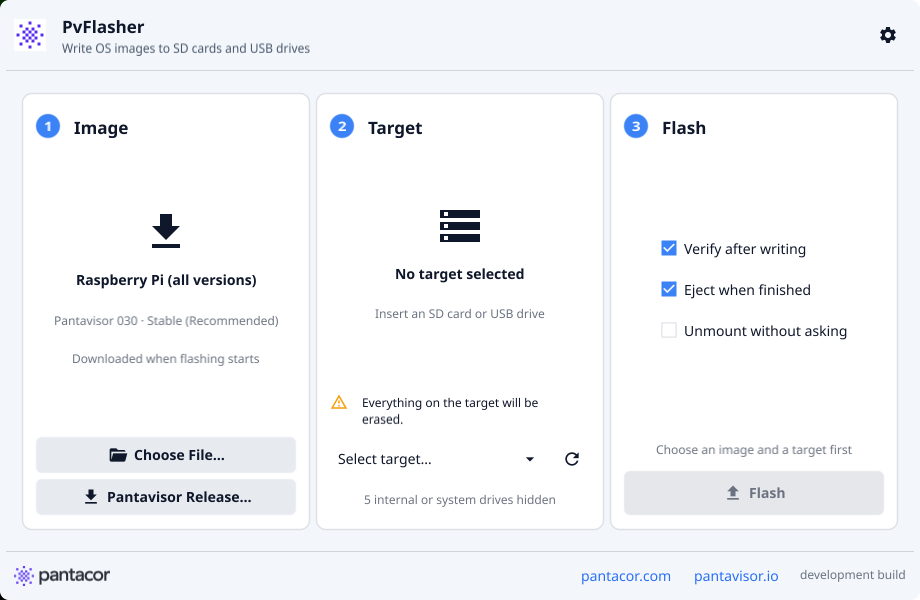
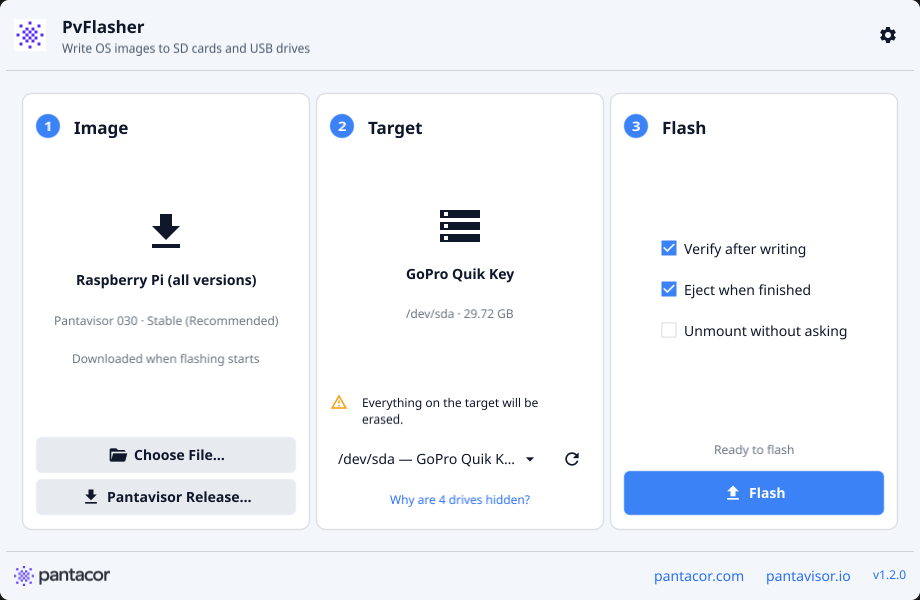
docs: refresh screenshots for v1.2.0
Retake the main and light-theme screenshots with the hidden-drives link and
the v1.2.0 footer, and show the Updates settings in the README.

diff --git a/README.md b/README.md
@@ -152,7 +152,9 @@ See the [User Guide](docs/USER_GUIDE.md) for full command documentation.
 
 ## 🔄 Updates
 
-PvFlasher checks for a new release once a day and offers to install it; turn this off or check manually from the gear icon's **Updates** setting, or run `pvflasher update` (`--check` to only look).
+PvFlasher checks for a new release once a day and offers to install it. The gear icon's **Updates** section (also opened by clicking the version in the bottom-right corner) shows your version and the latest one, and lets you update, check again or turn off automatic checks. From the command line, run `pvflasher version` to compare versions and `pvflasher update` to install the latest (`--check` to only look).
+
+<img src="docs/images/settings-updates.png" alt="Settings: current and latest version" width="460">
 
 Updates are downloaded from the GitHub release and installed only if their [minisign](https://jedisct1.github.io/minisign/) signature matches the release key built into PvFlasher (key ID `B711C321FA6FF262`). The AppImage, the `.tar.xz`/install-script binary and the Windows and macOS apps replace themselves and restart; copies installed with `deb`, `rpm` or `pacman` are left to your package manager.
 
